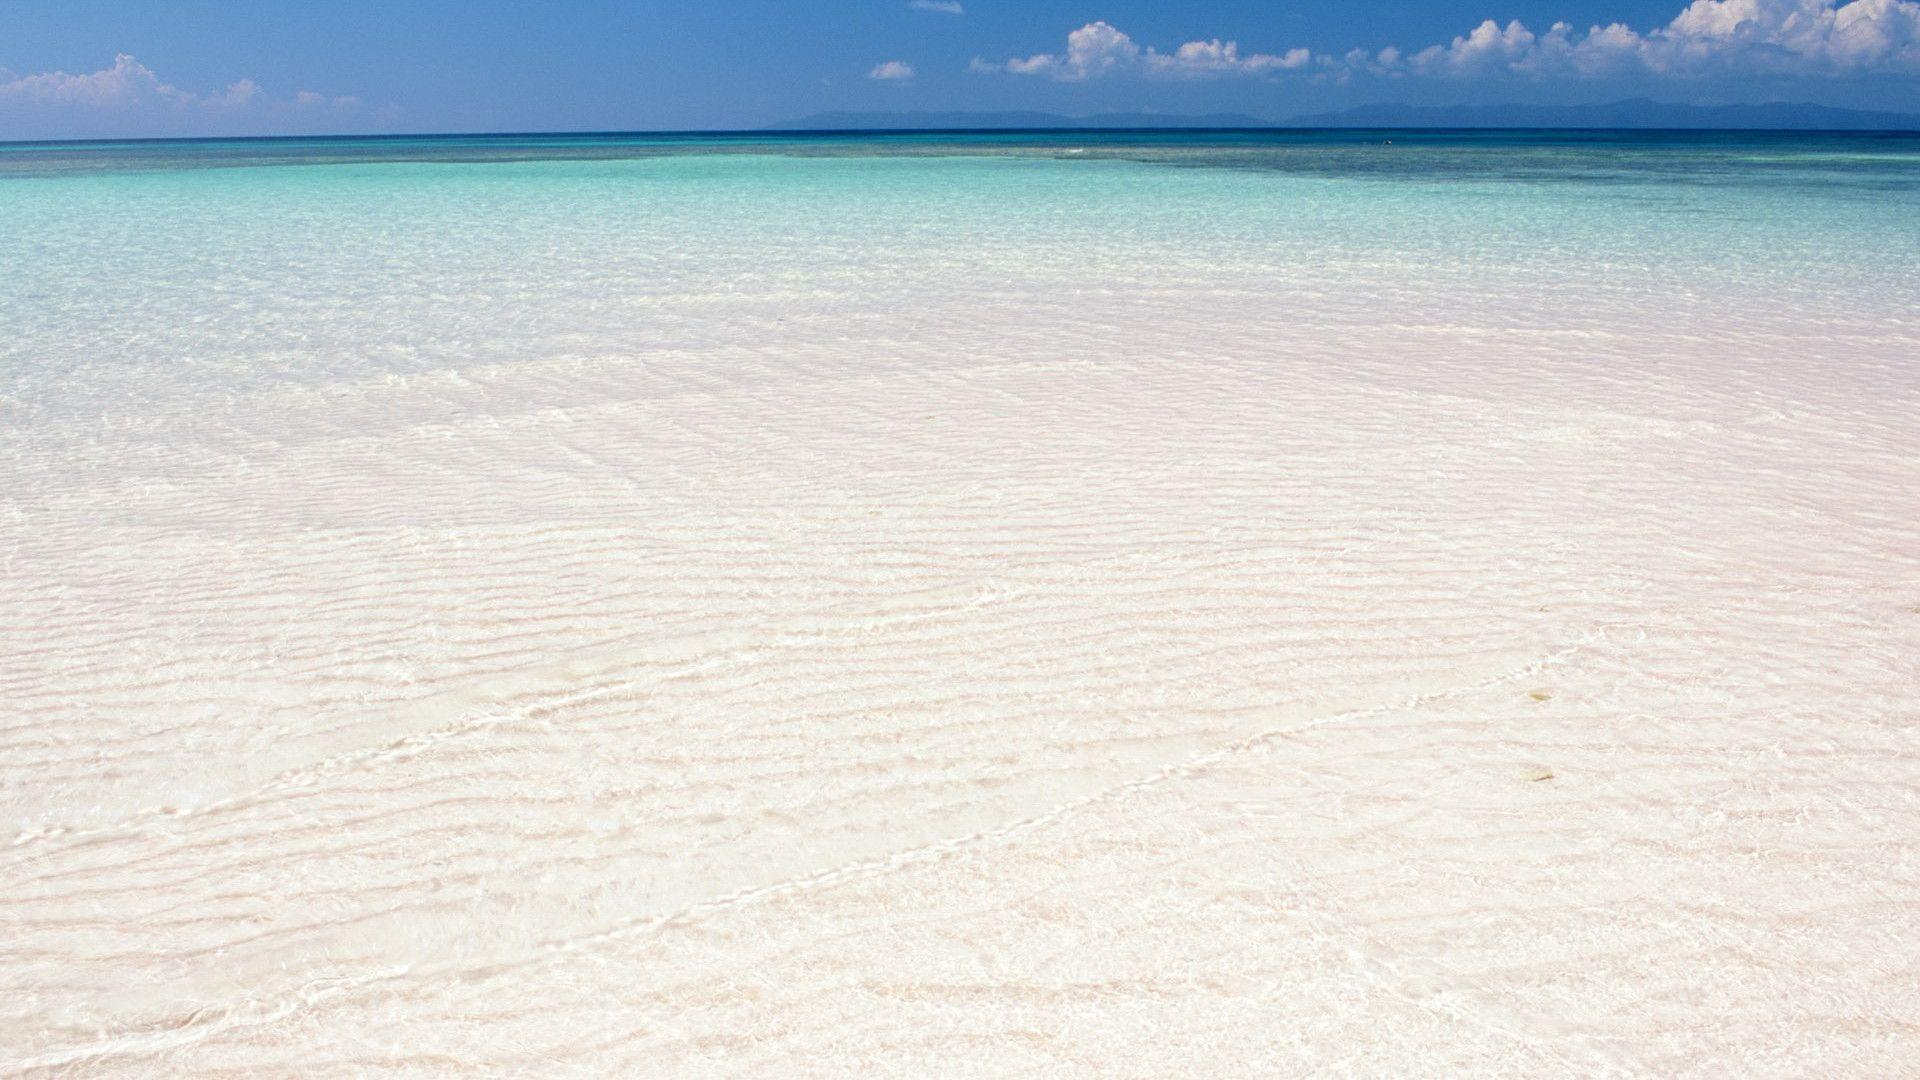
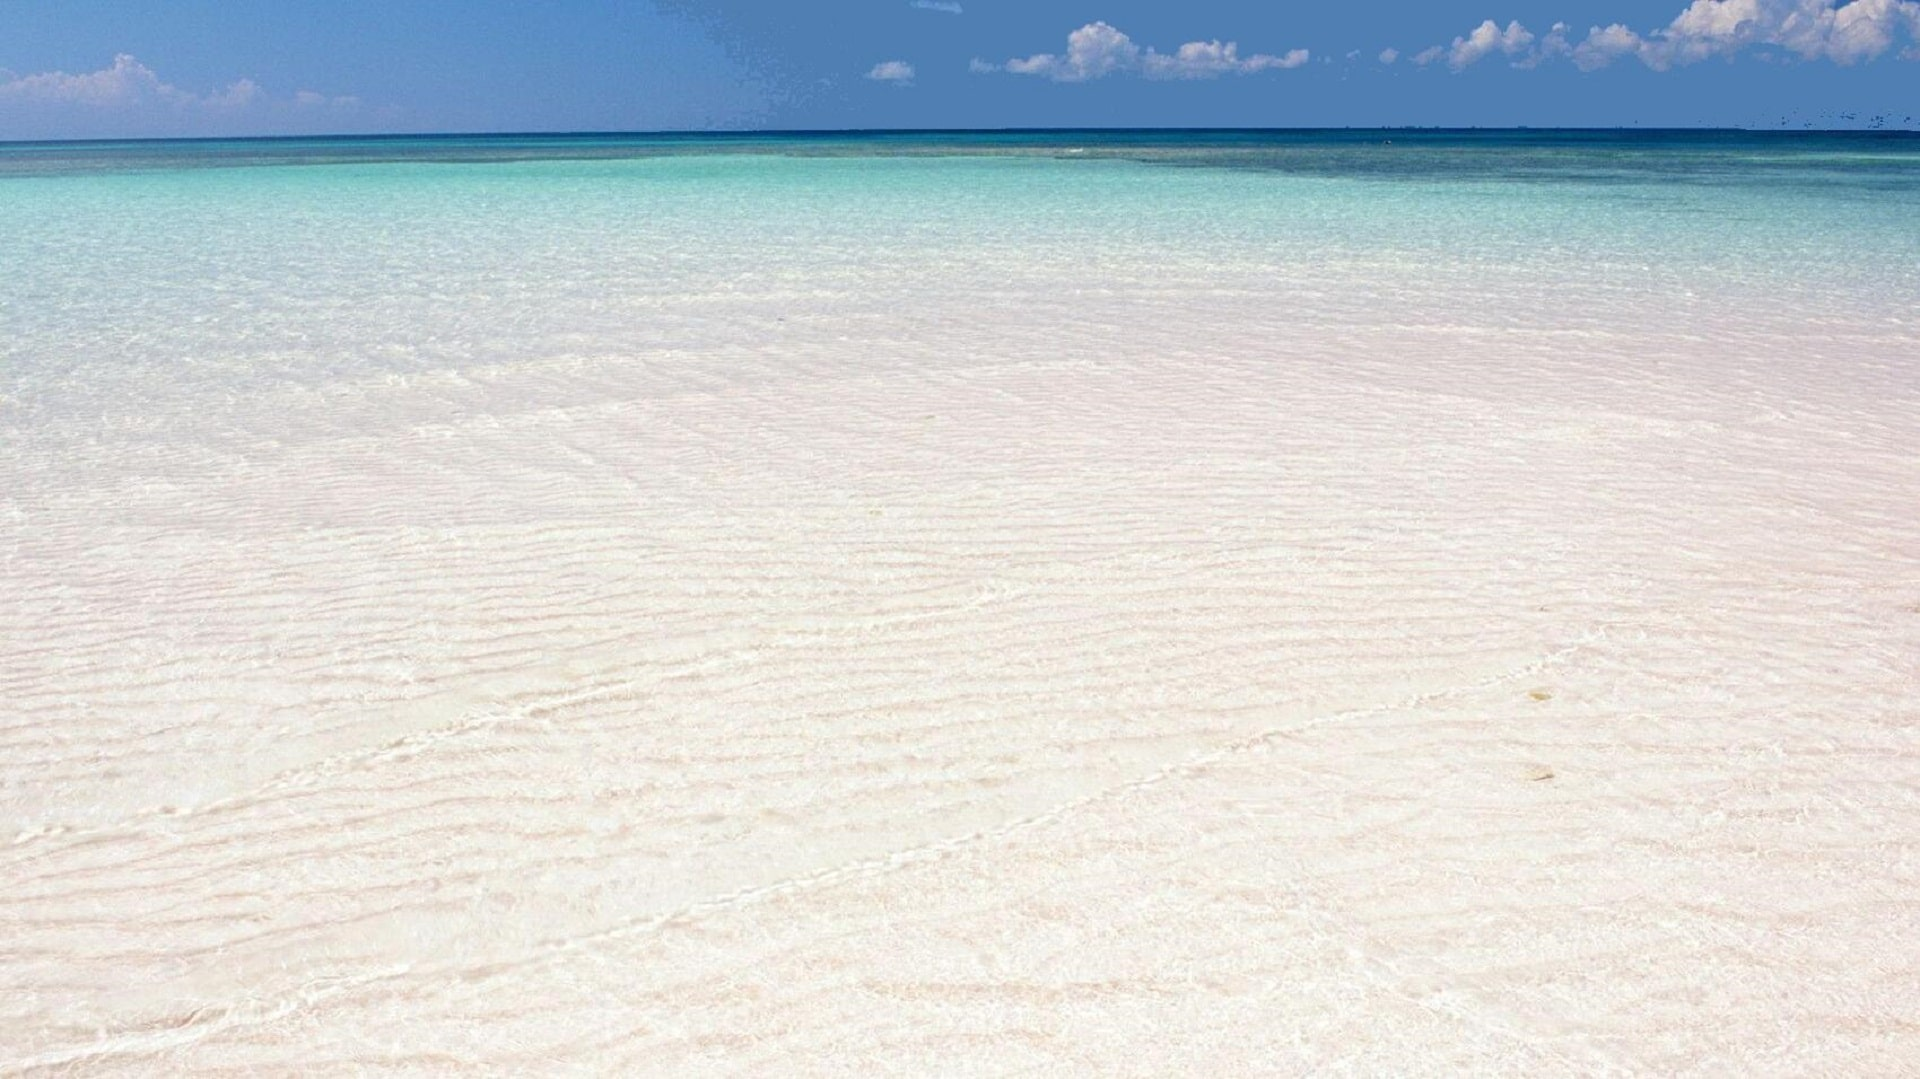
Remove mountains from background image, made menu links turquoise

Changed region(s): [[0.5, 0.0918, 1.0, 0.1223], [0.5938, 0.0, 0.875, 0.0612]]

diff --git a/_may2023/assets/css/abc.css b/_may2023/assets/css/abc.css
@@ -20,6 +20,10 @@ body#abc-viewport {
   color: #ed7e37;
 }
 
+.abc-text-seafoam {
+  color: #CCFFE5;
+}
+
 .abc-background-seafoam {
   background-color: #CCFFE5;
 }

diff --git a/_may2023/index.php b/_may2023/index.php
@@ -52,9 +52,9 @@
             <div>(Sorry we do not deliver to Fort Morgan)</div>
             <div class="is-size-4 has-text-primary-dark">
               OR if you're staying at
-              <div><a class="is-underlined has-text-primary-dark" href="#abc-properties">Properties we serve</a></div> 
+              <div><a class="is-underlined has-text-primary-dark" href="#abc-properties">Properties we serve</a></div>
               <div>
-                Then no delivery fees apply 
+                (No delivery fees apply) 
               </div>
             </div>
           </div>
@@ -76,15 +76,28 @@
           <div class="pt-2 has-text-danger-dark is-size-4 has-text-weight-semibold font-kalam">
             Alabama Beach Chairs
           </div>
-          <div class="mb-1 pb-1 is-size-5 is-hidden-tablet is-underlined has-text-primary-dark has-text-weight-bold abc-toggle-menu-mobile">
+          <div class="mb-1 
+                      pb-1 
+                      is-size-5 
+                      is-hidden-tablet 
+                      is-underlined 
+                      has-text-danger-dark
+                      has-text-weight-bold 
+                      abc-toggle-menu-mobile">
             <div>Show Menu</div>
           </div>
-          <div class="columns abc-menu-links py-2 is-size-4-mobile is-hidden-mobile is-size-4-desktop has-text-weight-semibold">
-            <a class="column is-one-fifth py-1" href="#abc-delivery">Delivery Service</a>
-            <a class="column is-one-fifth py-1" href="#abc-condo-service">Condo Service</a>
-            <a class="column is-one-fifth py-1" href="#abc-featured-property">Featured Property</a>
-            <a class="column is-one-fifth py-1" href="#abc-properties">Properties</a>
-            <a class="column is-one-fifth py-1" href="#abc-about-contact">About/Contact</a>
+          <div class="columns 
+                      abc-menu-links 
+                      py-2 
+                      is-size-4-mobile 
+                      is-hidden-mobile 
+                      is-size-4-desktop 
+                      has-text-weight-semibold">
+            <a class="column is-one-fifth py-1 has-text-primary-dark" href="#abc-delivery">Delivery Service</a>
+            <a class="column is-one-fifth py-1 has-text-primary-dark" href="#abc-condo-service">Condo Service</a>
+            <a class="column is-one-fifth py-1 has-text-primary-dark" href="#abc-featured-property">Featured Property</a>
+            <a class="column is-one-fifth py-1 has-text-primary-dark" href="#abc-properties">Properties</a>
+            <a class="column is-one-fifth py-1 has-text-primary-dark" href="#abc-about-contact">About/Contact</a>
           </div>
         </nav>
         <!-- DELIVERY -->
@@ -103,6 +116,7 @@
                   </div>
                 </div>
                 <?php require("./contact/_inc_contact_component.php"); ?>
+                <div class="mt-2">(Sorry we do not deliver to Fort Morgan)</div>
                 <div class="has-text-primary-dark is-size-3 mt-4">Alabama Beach Chairs' Delivery Sets</div>
                 <div class="has-text-primary-dark is-size-4">
                   2-person Chair Sets, with Umbrella
